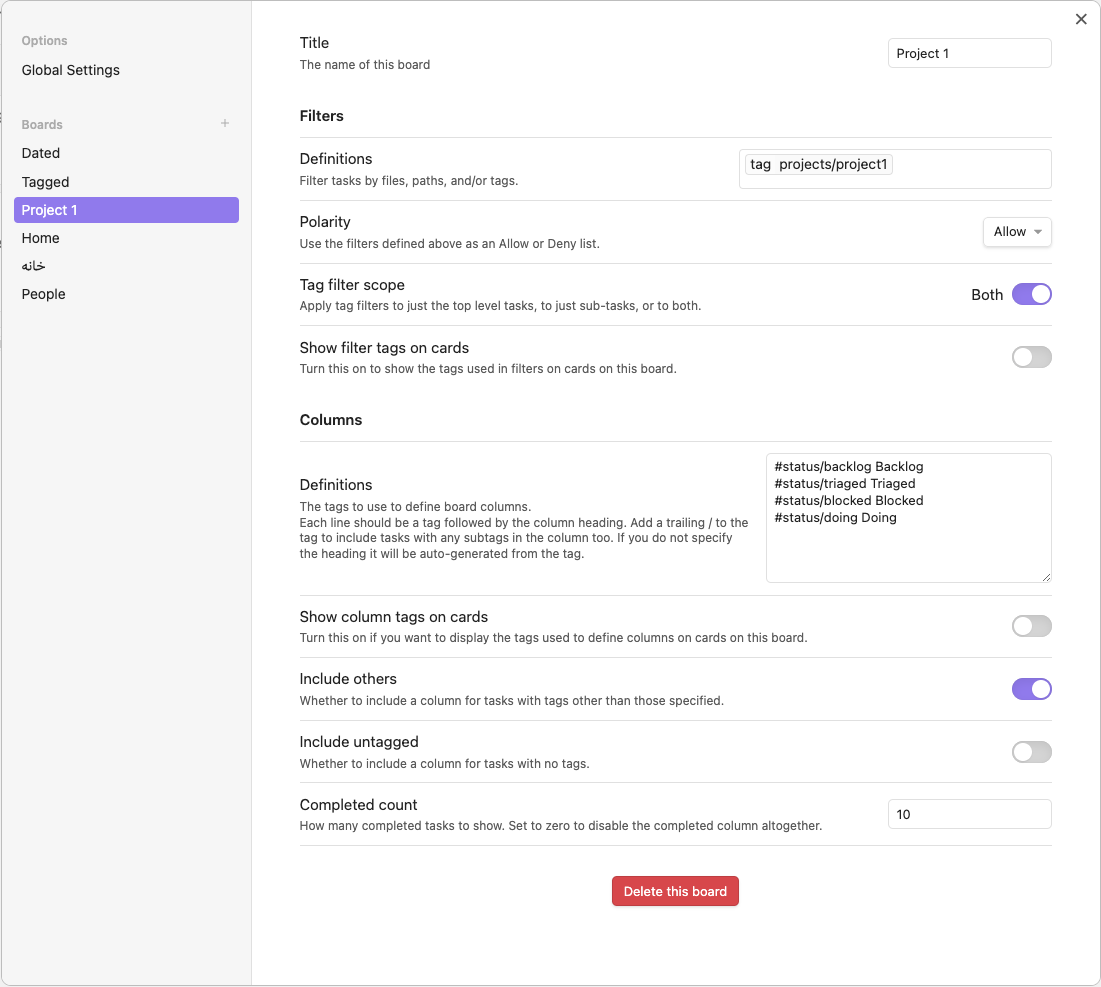
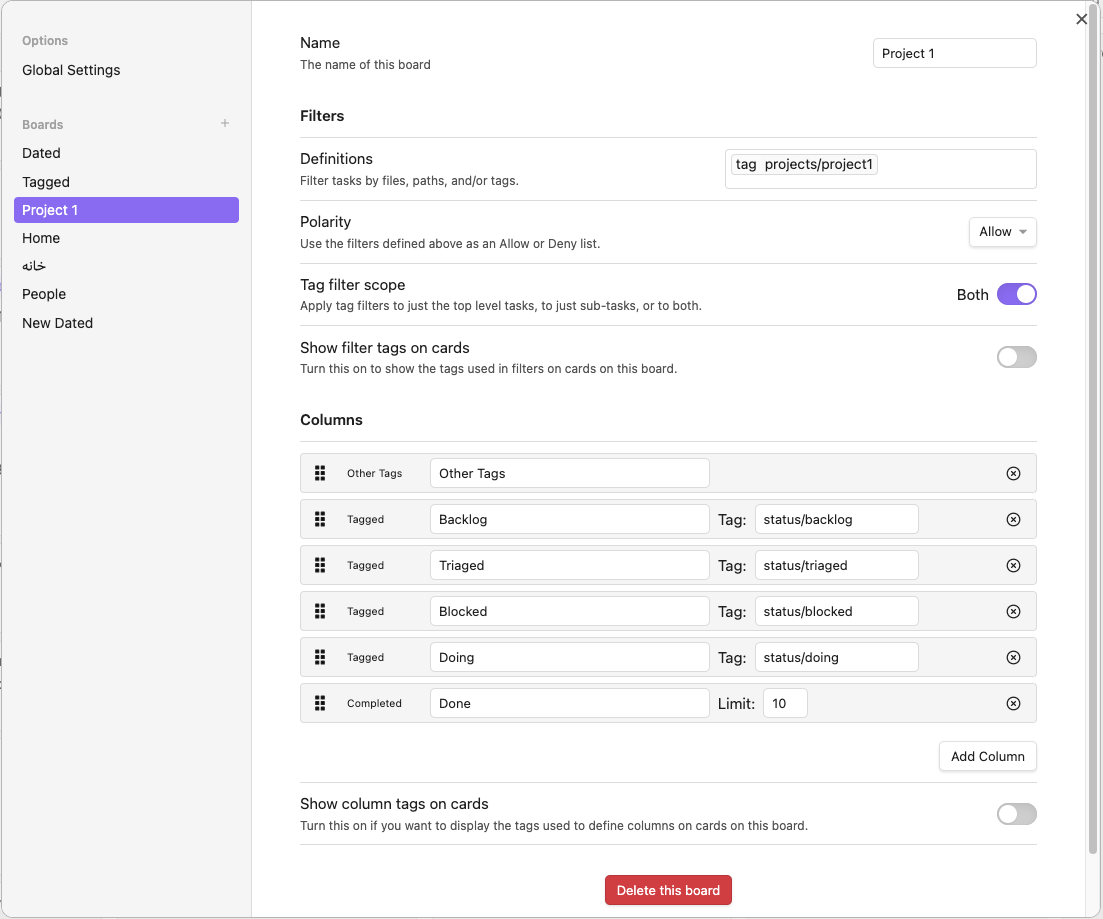
Columns: read-me updates (mostly)

diff --git a/styles.css b/styles.css
@@ -417,6 +417,10 @@ ul.card-board-column-list > li.card-board-card::before {
   gap: var(--size-4-2);
 }
 
+.cardboard-settings-columns-button {
+  padding-bottom: 0.75em;
+}
+
 .vertical-tab-header-group-title-icon {
   justify-self: end;
   cursor: pointer;

diff --git a/README.md b/README.md
@@ -10,16 +10,17 @@ An [Obsidian](https://obsidian.md/) plugin to make working with tasks a pleasure
 
 - Uses regular tasks/subtasks wherever they are in your vault.
 - Shows them on kanban style boards.
-- Two board types supported:
+- Two column types supported:
   - Date based (with daily/periodic notes support).
-  - Tag based (uses `#tags` to define your boards).
+  - Tag based (uses `#tags` to define columns).
 
 ## New
+- Boards can have a mixture of date and tag based columns.
+- Columns can be re-ordered by dragging them on the settings pane.
+- More flexible date based columns based on relative dates.
 - Ability to use css snippets to
-  [set card hightlight color](#customising-card-highlight-color) based on tags
-- Board reordering
-  - drag and drop tab headers or board names in the settings dialog
-- Improved styling of tab headers (consistent with obsidian)
+  [set card hightlight color](#customising-card-highlight-color) based on tags.
+- Board reordering; drag and drop tab headers or board names in the settings dialog.
 
 ![date based board screenshot](/images/dateBoard.png?raw=true)
 
@@ -35,13 +36,15 @@ When installed, you can launch the plugin:
 ![app ribbon icon](/images/ribbonIcon.png?raw=true)
 
 If you have no boards defined, you should get a dialog asking you to add a new
-board.  There are 2 types of board:
+board.  You can choose between 3 board start types:
 
 - **Date based**: looks like the main screenshot above.
 - **Tag based**: uses tags to define the columns (you need to include tags on
   your tasks or in front matter for this to work).
+- **Empty board**: has no pre-defined columns.
 
-Name and configure your boards and you are good to go.
+You can add/delete/edit/re-order columns in the settings pane, and can place
+whatever columns you wish on any board.
 
 ## Cards
 Any task in your vault can appear as a card in a column on a board.  In order to
@@ -121,11 +124,9 @@ The current behaviour for the different columns is:
 
 - **Completed**: has the most recently completed at the top (assuming they were
   marked as complete using the checkbox on the board).
-- **Future**, **Today**, **Tags**: these are sorted by due date and then
+- **Date** & **Tag** columns are sorted by due date and then
   alphabetically within this.
 - other columns are sorted alphabetically.
-
-I am not convinced that this is the best strategy so this may well change in a future release.
 
 ### Customising Tags
 I have to recommend using the wonderful
@@ -186,19 +187,20 @@ which you have set different colors for, the last one read from your snippets wi
 priority.  Tag based colors will be applied for tags even if they are [hidden](#hiding-tags).
 
 ## Boards
-Two board types supported:
-  - Date based (with daily/periodic notes support).
-  - Tag based (uses `#tags` to define your boards).
+Boards are simply a collection of columns, which are defined either by:
+  - Dates (with daily/periodic notes support).
+  - Tags (uses `#tags` to define the column).
 
 ### Reordering boards
-Boards can be reordered by dragging their tabs on the main view.
+Boards can be reordered by dragging their tabs on the main view or dragging their
+name in the list on the settings pane.
 
-### Date boards
+### Date columns
 You will get the best out of these if you are using the (core) Daily Notes
 or the (community) Periodic Notes plugins, as any tasks you place on a daily
 note will be assigned to the day of the note.  If you do not want this behaviour
 you can turn it off in the Global Settings pane, then tasks on daily notes
-pages will not have a due date unless specifically specified.
+pages will not have a due date unless one is specified on the line of the task.
 
 ![filters](/images/ignoreFileNameDatesSetting.png?raw=true)
 
@@ -224,27 +226,37 @@ You can turn off the due date for a specific task on a daily note page:
 - [ ] My task @due(none)
 ```
 
+
 #### Overdue tasks
-These will appear in the `Today` column above any  any tasks that are actually
-due today.
+In the default Date Board, these will appear in the `Today` column above any
+any tasks that are actually due today.
 
 The idea being that it will get steadily more annoying to see what you were planning
 to do today if you have a lot of incomplete tasks from previous days, (hopefully)
 encouraging you to do something about them; like do them or move them to a future
 date if you want to schedule them later.
 
+If you prefer to have overdue tasks in their own column you can configure this in the
+settings:
 
-#### Completed tasks
-If you choose to show completed tasks on your date board, you will only see
-completed tasks which have a due date unless the Undated column is enabled.
+![date board column settings](/images/dateBoardColumnsSettings.png?raw=true)
 
+This shows the 3 types of date based columns you can use: `Before`, `Between`, and `After`.
+Each of these use relative dates, where 0 means today, so:
 
-### Tag boards
-If you give your tasks tags, you can use these to set up a tag-board.  So if you
+- `Between 0 and 0` means today
+- `Between 1 and 1` means tomorrow
+- `Before 0` means before today (overdue)
+- `After 1` means after tomorrow
+
+### Tag columns
+If you give your tasks tags, you can use these to set up tag columns.  So if you
 have the tags `#status/backlog`, `#status/triaged`, `status/blocked`, `#status/doing`,
 you can define a board that shows tasks tagged with these in separate columns:
 
-![tag board settingx](/images/tagBoardSettings.png?raw=true)
+![tag board settings](/images/tagBoardSettings.png?raw=true)
+
+Note that you should not inclue the `#` character at the start of the tag in the settings.
 
 
 #### Sub-tasks
@@ -274,21 +286,22 @@ this will hide all the tags used in the settings wherever cards are on the board
 Only tags that exactly match those used in the settings will be hidden.
 
 #### Completed tasks
-When a task is shown in a column due to tags on sub-tasks it will only show in that
-column if those subtasks are incomplete.  So the following
-task is shown only in the Barney column as the Wilma sub-task is complete:
+If you choose to show completed tasks on your board, you will only see
+completed tasks that would have appeared in one of the other columns had it not been
+completed, so it only contains tasks that *belong* on the board.
+
+If you have columns based on tags and a task is shown in a column due to tags on
+sub-tasks it will only show in that column if those subtasks are incomplete.
+So the following task is shown only in the Barney column as the Wilma sub-task
+is complete:
 
 ![wilma_barney](/images/wilma_barney.png?raw=true)
 
-This does mean that a card can appear in the completed column of a tag board even if
+This does mean that a card can appear in the completed column even if
 the top level task is not complete, e.g for the above example if the barney task is
 marked as complete the card will move to the Completed column:
 
 ![wilma_barney_completed](/images/wilma_barney_completed.png?raw=true)
-
-The board config defines which tasks will appear on a Tag board, and this is true for
-the completed column too; only tasks which would appear on the board if all tasks and
-subtasks were marked as incomplete can ever be in the Completed column.
 
 
 ### Board Filters
@@ -313,8 +326,9 @@ above the board to the left of the tabs.  You can:
 
 - Create new boards (using the + icon next to _BOARDS_).
 - Configure your boards.
-- Customize the names of the built-in columns.
-- Delete any boards you no longer need.
+- Customize the default names of the built-in columns.
+- Add/remove/edit/reorder columns.
+- Delete boards.
 - Choose whether to use Cardboard, Dataview or Tasks format for marking task completion.
 - Choose to not use the date of daily notes files as the due date for tasks.
 
